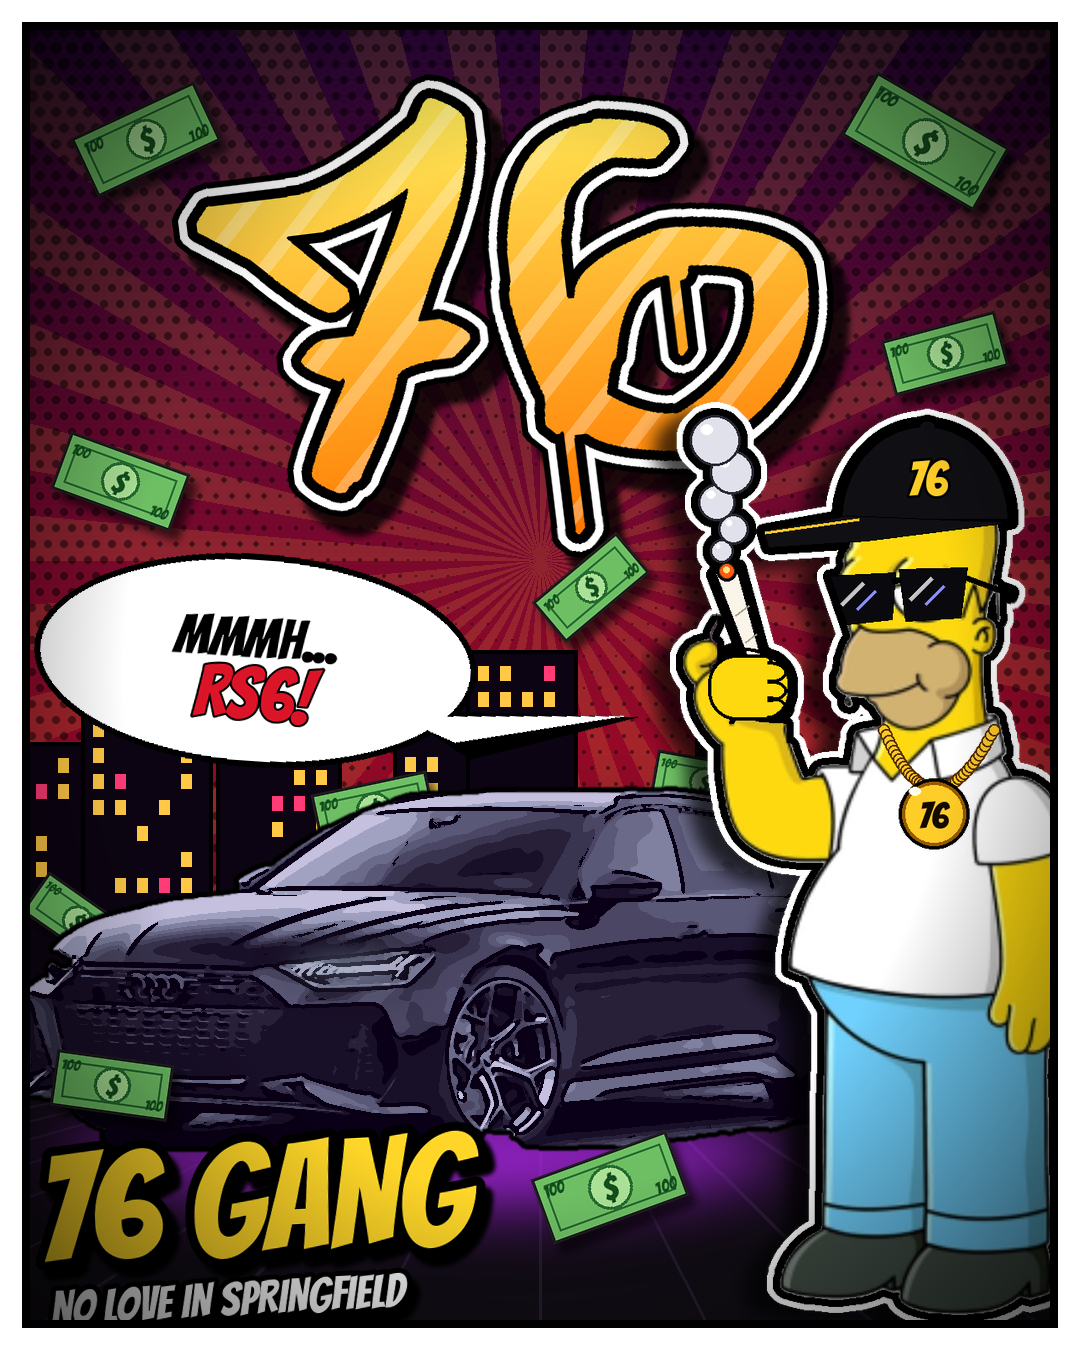
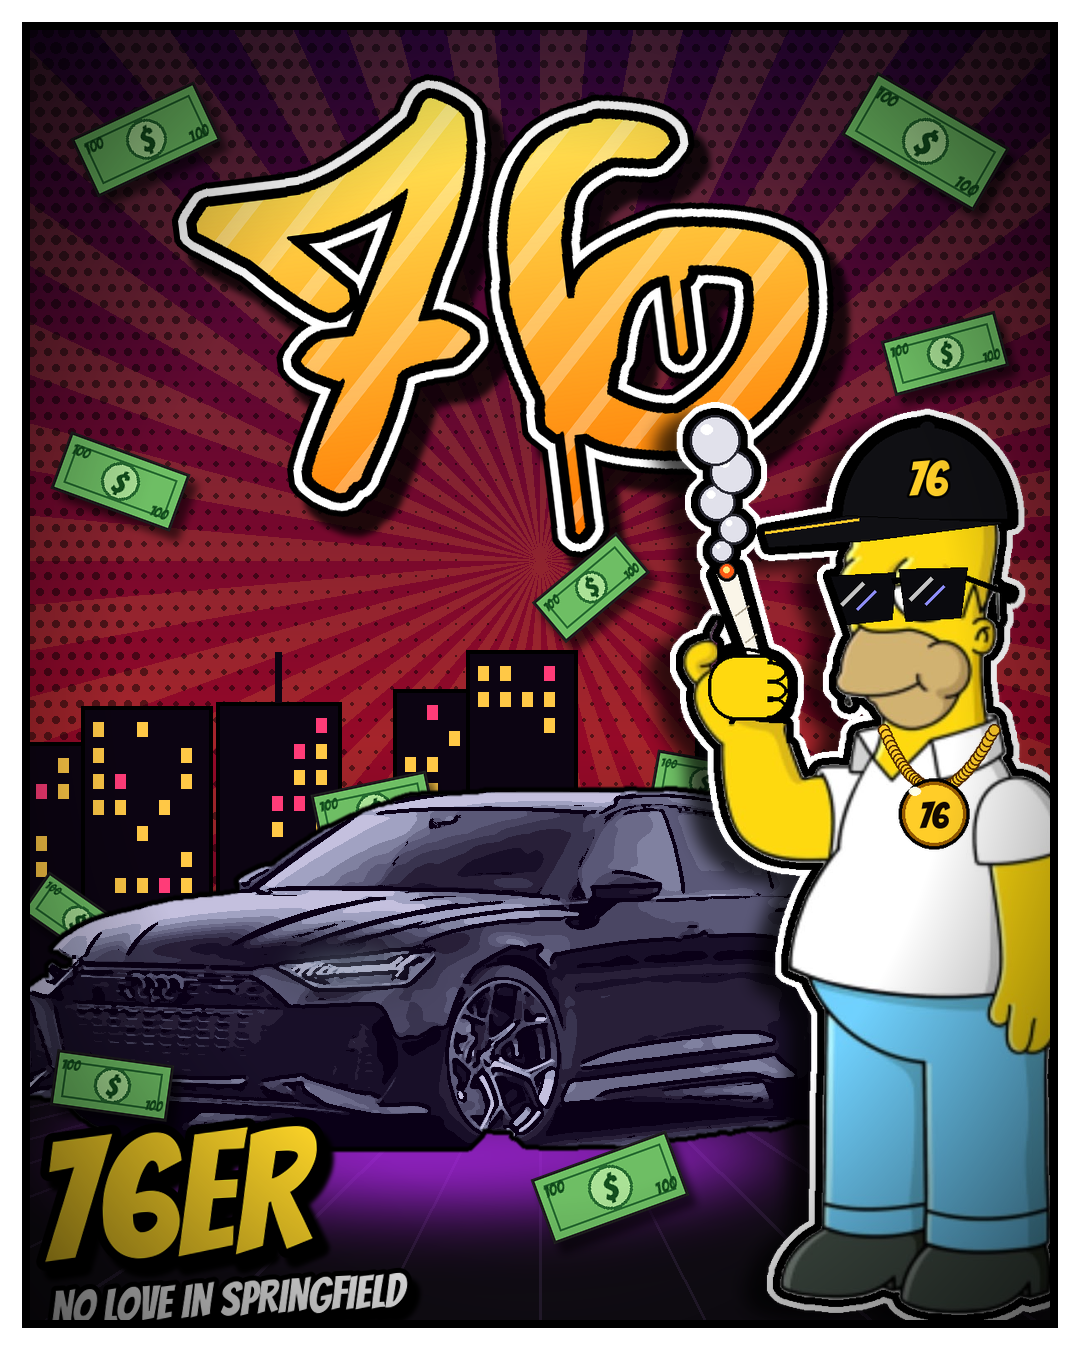
76 Gang poster: title 76er, remove speech bubble
Claude-Session: https://claude.ai/code/session_01DjGXjfbxLiENZnwK52kBDS

Changed region(s): [[0.0306, 0.4044, 0.5806, 0.5911], [0.0306, 0.8089, 0.4583, 0.9333]]

diff --git a/gang-bild/compose.py b/gang-bild/compose.py
@@ -174,19 +174,9 @@ hpos=(W-ho.width+30,H-ho.height-15)
 shadow(bg,ho,hpos,off=(-22,10),alpha=180,blur=8); bg.alpha_composite(ho,hpos)
 
 scatter([(520,1120,0.85,20),(40,1040,0.7,-8)])
-# ---------- speech bubble ----------
-b=Image.new('RGBA',(W,H),(0,0,0,0)); bd=ImageDraw.Draw(b)
-bx0,by0,bx1,by1=40,560,470,760
-tail=[(400,700),(470,740),(640,690)]
-bd.ellipse([bx0-6,by0-6,bx1+6,by1+6],fill=(0,0,0)); bd.polygon([(t[0]+(6 if i==1 else 0),t[1]+(4 if i==1 else 0)) for i,t in enumerate(tail)],fill=(0,0,0))
-bd.ellipse([bx0,by0,bx1,by1],fill=(255,255,255)); bd.polygon([(400,706),(460,728),(626,690)],fill=(255,255,255))
-bd.text(((bx0+bx1)//2,(by0+by1)//2-22),'MMMH...',font=F(56),fill=(0,0,0),anchor='mm')
-bd.text(((bx0+bx1)//2,(by0+by1)//2+34),'RS6!',font=F(74),fill=(220,20,40),anchor='mm',stroke_width=2,stroke_fill=(0,0,0))
-b=b.rotate(-4,resample=Image.BICUBIC,center=(255,660)); bg.alpha_composite(b)
-
 # ---------- title ----------
 tl=Image.new('RGBA',(W,H),(0,0,0,0)); td=ImageDraw.Draw(tl)
-td.text((40,1250),'76 GANG',font=F(150),fill=(255,214,40),stroke_width=9,stroke_fill=(0,0,0),anchor='ls')
+td.text((40,1250),'76er',font=F(170),fill=(255,214,40),stroke_width=9,stroke_fill=(0,0,0),anchor='ls')
 td.text((48,1312),'NO LOVE IN SPRINGFIELD',font=F(46),fill=(255,255,255),stroke_width=5,stroke_fill=(0,0,0),anchor='ls')
 tl=tl.rotate(3,resample=Image.BICUBIC,center=(300,1250))
 sh=Image.new('RGBA',(W,H),(0,0,0,0)); sh.putalpha(tl.split()[3]); bg.alpha_composite(sh.filter(ImageFilter.GaussianBlur(2)),(8,10)); bg.alpha_composite(tl)
